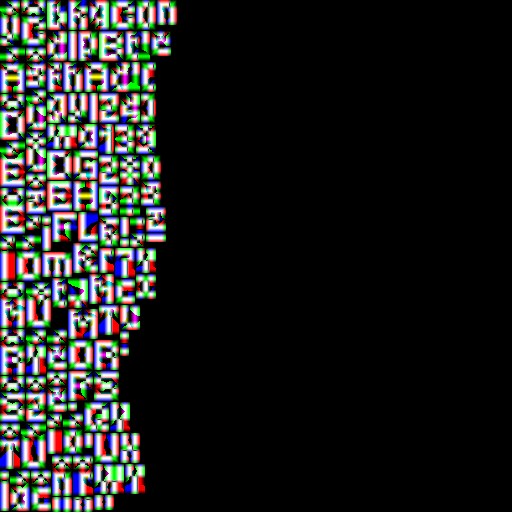
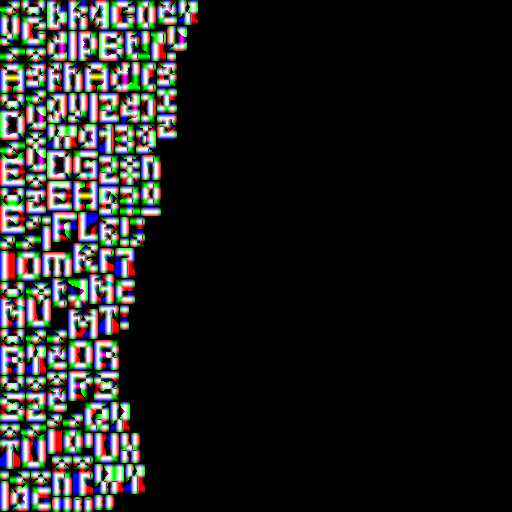
update

Changed region(s): [[0.2188, 0.0, 0.4062, 0.7188], [0.125, 0.7812, 0.1562, 0.8125]]

diff --git a/index.html b/index.html
@@ -159,7 +159,7 @@
             },
             spawnCharacters: function () {
                 var characterNames = [
-                    "Havel s krátkými kalhoty",
+                    "Havel s krátkými kalhotami",
                     "Casual Havel",
                     "Ha-V-el",
                     "Mladý Havel",
@@ -332,7 +332,7 @@
     </script>
 </head>
 <body>
-    <a-scene character-spawner="count: 6; radius: 30">
+    <a-scene character-spawner="count: 6; radius: 32">
         <a-assets>
             <img id="panorama" src="assets/panorama1.png" crossorigin="anonymous" />
             <img id="groundTexture" src="assets/tile.png" crossorigin="anonymous" />
